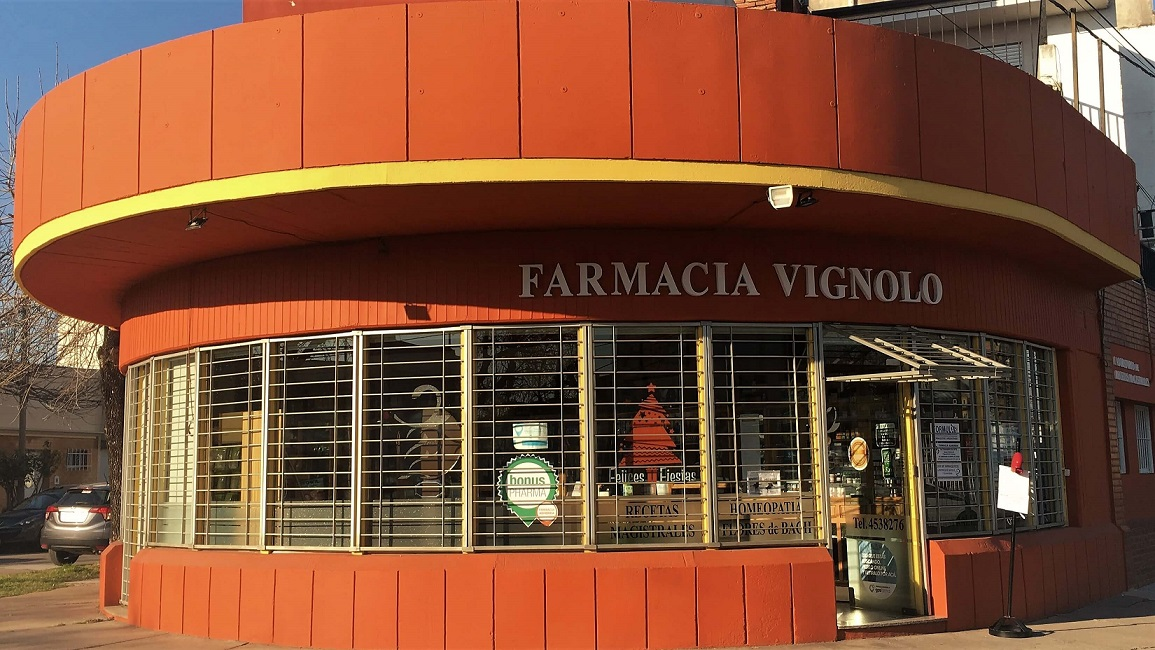
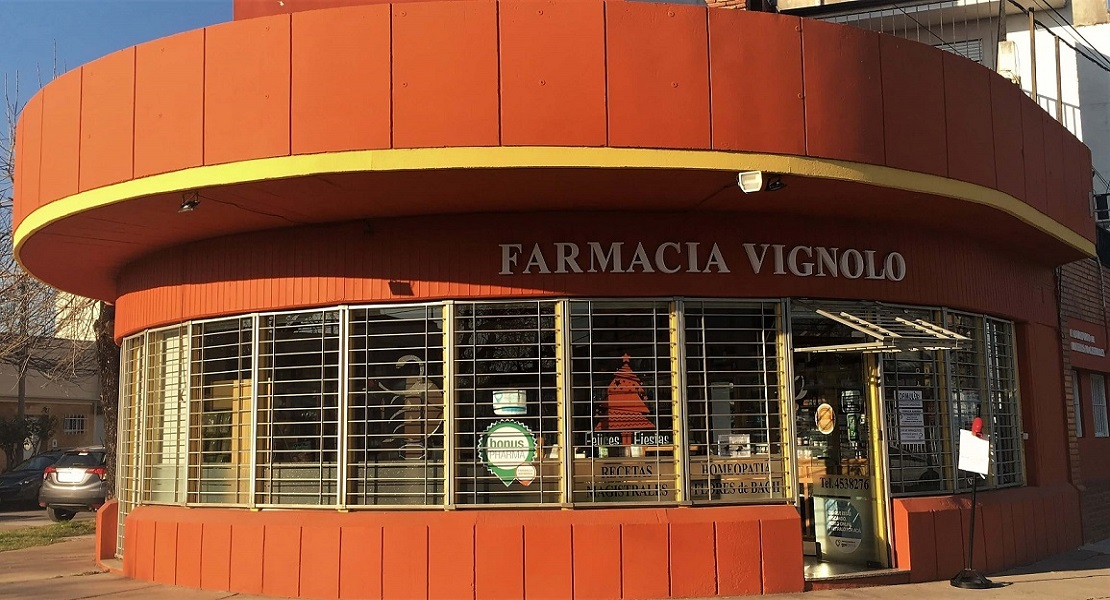
a ver si funciona este carrousel

diff --git a/index.html b/index.html
@@ -82,7 +82,7 @@
                         <img src="img/Frente Noche.JPG" class="d-block w-100" alt="Foto del frente de noche">
                     </div>
                     <div class="carousel-item">
-                        <img src="img/PuertaDia2.JPG" class="d-block w-100" alt="Foto exterior de dia">
+                        <img src="img/ExteriorDia.jpg" class="d-block w-100" alt="Foto exterior de dia">
                     </div>
                     <div class="carousel-item">
                         <img src="img/mostrador-3-169.jpg" class="d-block w-100" alt="Foto del mostrador">
